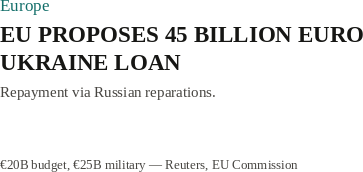
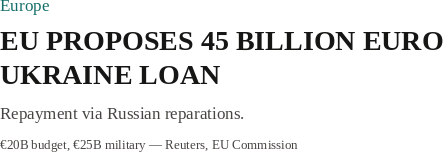
v3: unpin card sources, bigger hero (976x278), larger grid type, balanced sub wraps

diff --git a/main.py b/main.py
@@ -7,9 +7,12 @@ their display size, text pre-rendered with the Liberation fonts at build
 time -- see the build script beside the repo) and this program lays them
 out, draws the hairlines and photo outlines, and writes the PNG.
 
-Layout, coordinates and colours are the v2 design (commit a4e0c80),
-unchanged: masthead, date line, hero summit story, four story cards,
-footer. The program is deterministic: two runs write identical bytes.
+Layout, coordinates and colours are the v3 design: masthead, date line,
+hero kicker/headline, deck and footer unchanged from v2; hero photo
+976x278; grid sources ride directly under each card's text (no pinned
+baseline); photo-card headlines 24pt, text-only-card headlines 28pt with
+airier leading; row heights content-driven (160/165). The program is
+deterministic: two runs write identical bytes.
 """
 
 import os
@@ -31,9 +34,9 @@ HAIRLINE = (190, 186, 176)
 
 # (file, paste_x, paste_y): photos are opaque RGB, text is RGBA.
 PHOTOS = [
-    ("hero_976x222.png", 24, 286),
-    ("gta_150x174.png", 24, 588),
-    ("jeffries_150x174.png", 524, 778),
+    ("hero_976x278.png", 24, 286),
+    ("gta_170x150.png", 24, 637),
+    ("jeffries_170x150.png", 524, 805),
 ]
 
 # Text PNGs with the paste offset recorded at build time (alpha bbox).
@@ -42,12 +45,12 @@ TEXTS = [
     ("t_dateline.png", 302, 116),
     ("t_hero_kicker.png", 24, 161),
     ("t_hero_head.png", 24, 192),
-    ("t_caption.png", 25, 516),
-    ("t_deck.png", 23, 543),
-    ("t_card0.png", 186, 590),
-    ("t_card1.png", 524, 590),
-    ("t_card2.png", 24, 781),
-    ("t_card3.png", 686, 780),
+    ("t_caption.png", 25, 572),
+    ("t_deck.png", 23, 600),
+    ("t_card0.png", 206, 639),
+    ("t_card1.png", 524, 639),
+    ("t_card2.png", 24, 808),
+    ("t_card3.png", 706, 807),
     ("t_foot_l.png", 24, 985),
     ("t_foot_r.png", 833, 985),
 ]
@@ -56,22 +59,22 @@ TEXTS = [
 HLINES = [
     (24, 1000, 102, 1, INK),
     (24, 1000, 144, 3, INK),
-    (24, 1000, 572, 1, INK),
-    (24, 1000, 769, 1, HAIRLINE),
+    (24, 1000, 623, 1, INK),
+    (24, 1000, 796, 1, HAIRLINE),
     (24, 1000, 974, 2, INK),
 ]
 
 # Vertical hairline dividers: (x, y0, y1, colour).
 VLINES = [
-    (512, 584, 760, HAIRLINE),
-    (512, 774, 950, HAIRLINE),
+    (512, 633, 787, HAIRLINE),
+    (512, 801, 960, HAIRLINE),
 ]
 
 # Photo outlines: (x0, y0, x1, y1), 1px black at alpha 26.
 OUTLINES = [
-    (24, 286, 999, 507),
-    (24, 588, 173, 761),
-    (524, 778, 673, 951),
+    (24, 286, 999, 563),
+    (24, 637, 193, 786),
+    (524, 805, 693, 954),
 ]
 
 
